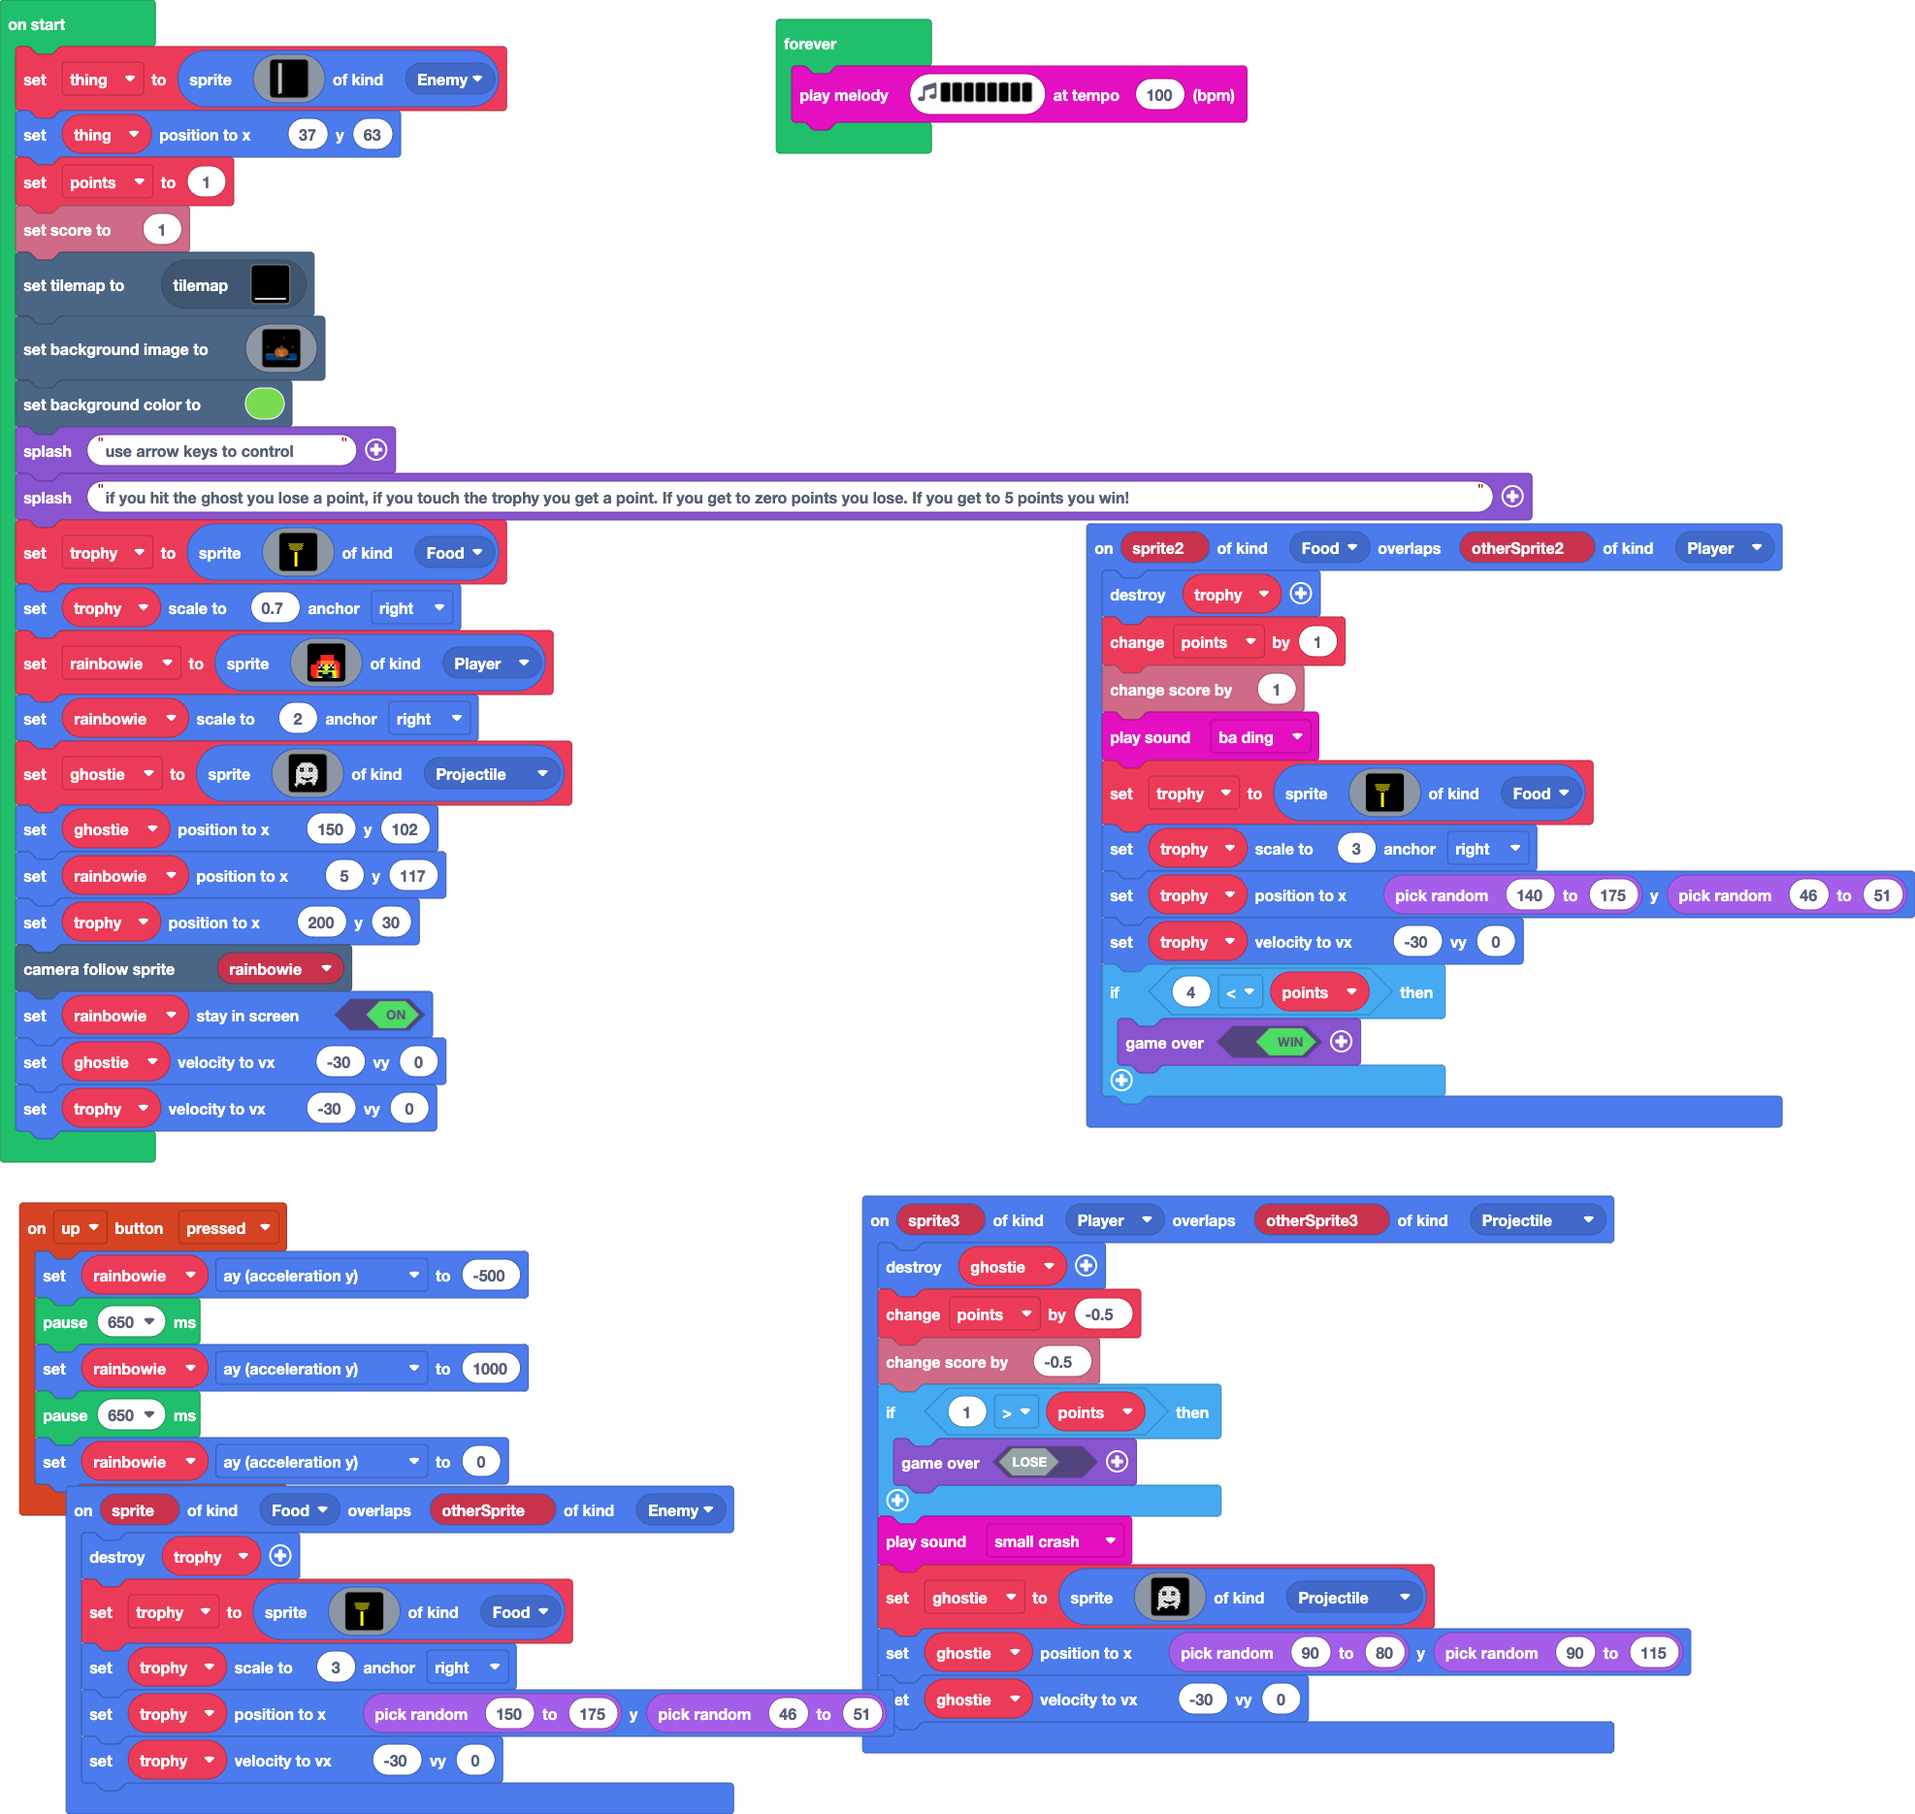
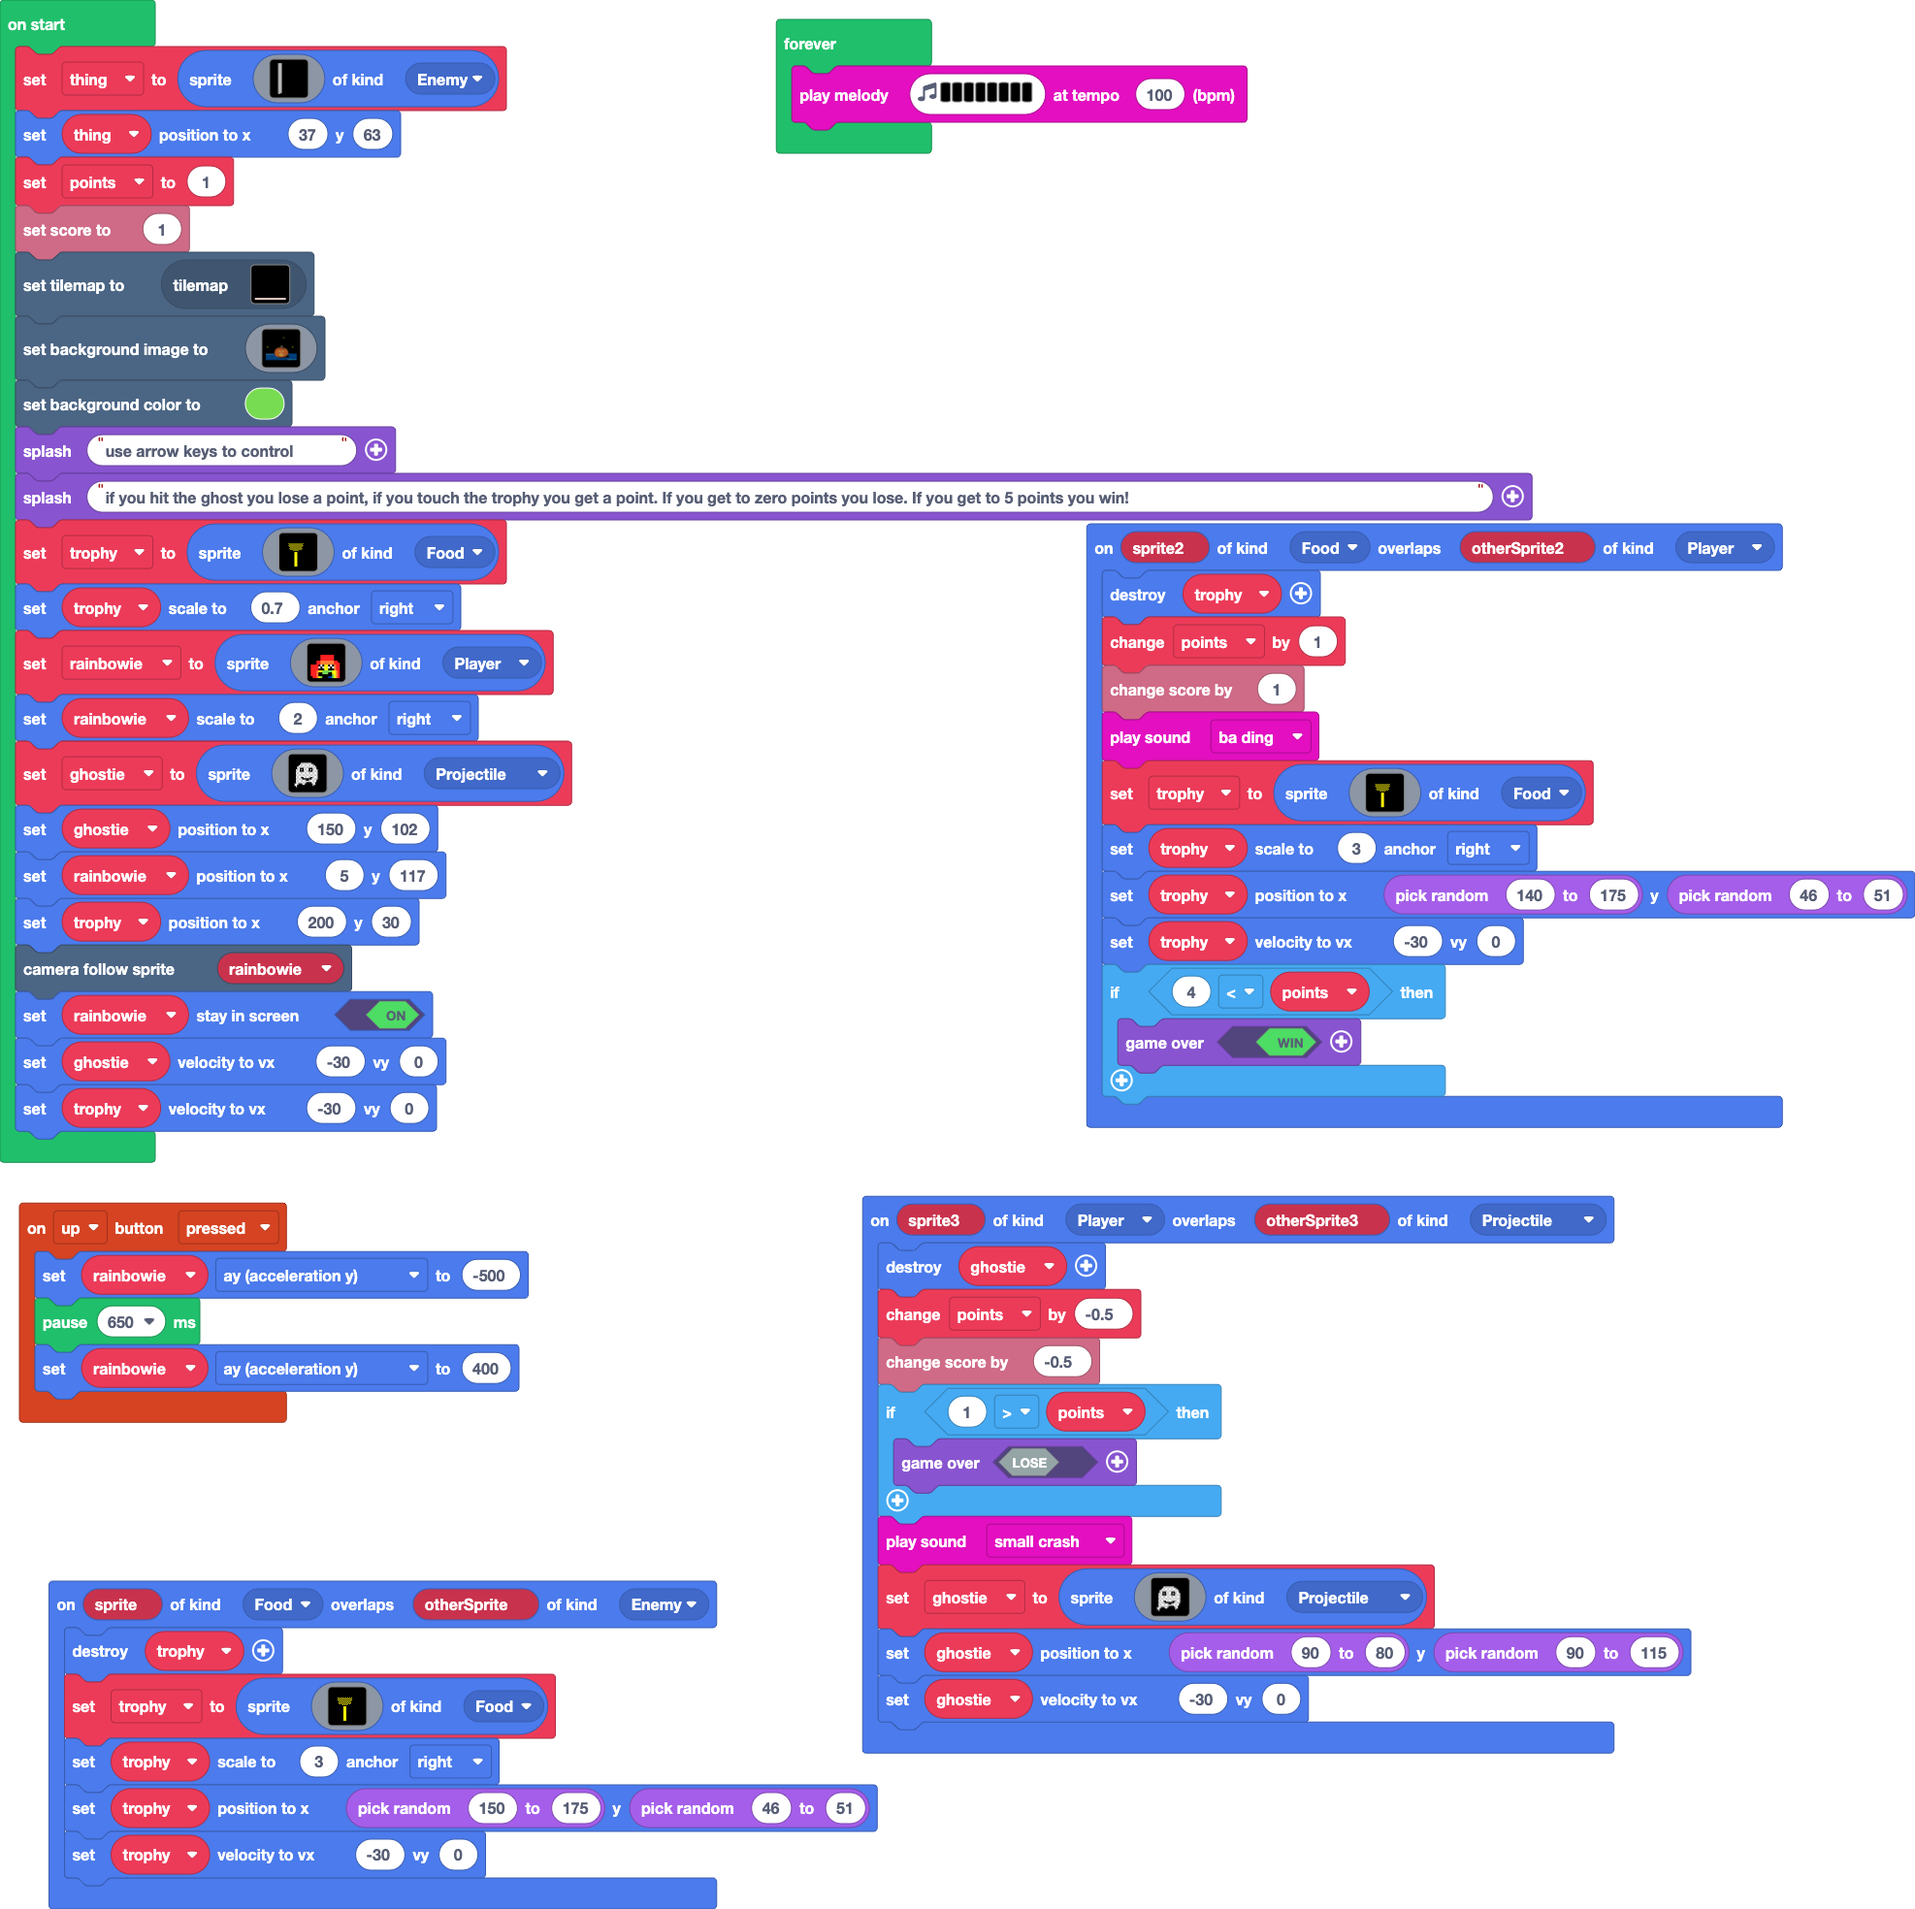
Update main.blocks, main.ts, tilemap.g.jres, tilemap.g.ts

diff --git a/tilemap.g.ts b/tilemap.g.ts
@@ -119,6 +119,25 @@ namespace myTiles {
 . . . . . . . . . . . . . . . . 
 2 2 2 2 2 2 2 2 2 2 2 2 2 2 2 2 
 `, [myTiles.transparency16,sprites.castle.tilePath5], TileScale.Sixteen);
+            case "level7":
+            case "level7":return tiles.createTilemap(hex`1000100000000000000000000000000000000000000000000000000000000000000000000000000000000000000000000000000000000000000000000000000000000000000000000000000000000000000000000000000000000000000000000000000000000000000000000000000000000000000000000000000000000000000000000000000000000000000000000000000000000000000000000000000000000000000000000000000000000000000000000000000000000000000000000000000000000000000000000000000000000000000000000000000000000000000000000000000000000000000000000000000000000000000000000000000000000000`, img`
+. . . . . . . . . . . . . . . . 
+. . . . . . . . . . . . . . . . 
+. . . . . . . . . . . . . . . . 
+. . . . . . . . . . . . . . . . 
+. . . . . . . . . . . . . . . . 
+. . . . . . . . . . . . . . . . 
+. . . . . . . . . . . . . . . . 
+. . . . . . . . . . . . . . . . 
+. . . . . . . . . . . . . . . . 
+. . . . . . . . . . . . . . . . 
+. . . . . . . . . . . . . . . . 
+. . . . . . . . . . . . . . . . 
+. . . . . . . . . . . . . . . . 
+. . . . . . . . . . . . . . . . 
+. . . . . . . . . . . . . . . . 
+. . . . . . . . . . . . . . . . 
+`, [myTiles.transparency16], TileScale.Sixteen);
         }
         return null;
     })

diff --git a/main.ts b/main.ts
@@ -1,9 +1,7 @@
 controller.up.onEvent(ControllerButtonEvent.Pressed, function () {
     rainbowie.ay = -500
     pause(650)
-    rainbowie.ay = 1000
-    pause(650)
-    rainbowie.ay = 0
+    rainbowie.ay = 400
 })
 sprites.onOverlap(SpriteKind.Player, SpriteKind.Projectile, function (sprite3, otherSprite3) {
     ghostie.destroy()
